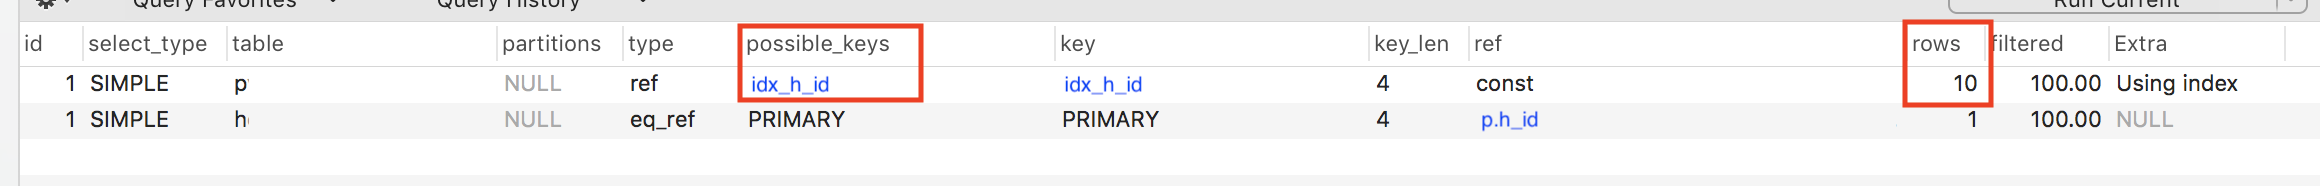
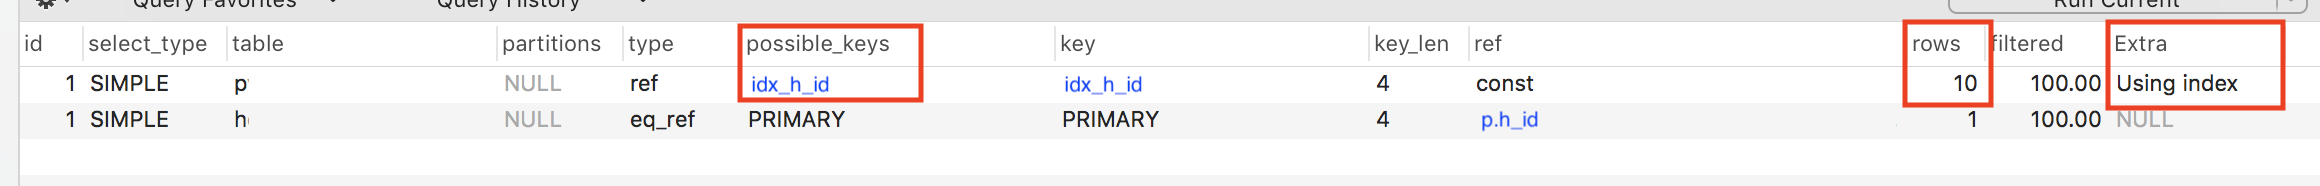
Rebuilding site Thu Jan 14 05:41:45 WIB 2021

Changed region(s): [[0.9, 0.5645, 0.9931, 0.6183], [0.9, 0.0806, 0.9931, 0.1344]]

diff --git a/docs/add-proper-index-table-for-slow-query-mysql/index.html b/docs/add-proper-index-table-for-slow-query-mysql/index.html
@@ -74,13 +74,13 @@ WHERE p.d_id = 26356
 <p>Details explanation of output of command <code>EXPLAIN</code> you will get in here <a href="https://dev.mysql.com/doc/refman/5.6/en/explain-output.html">https://dev.mysql.com/doc/refman/5.6/en/explain-output.html</a></p>
 </blockquote>
 <p>See red mark on column <code>key</code> and the first row, it means your query look over table <code>p</code> without index, identified by <code>null</code> value.
-Then you see a red mark on column <code>rows</code> and the first row, for <code>p</code> table MySQL do examine <code>218404</code> row in the table, this is total data in table <code>p</code>.</p>
+Then you see a red mark on column <code>rows</code> and the first row, for <code>p</code> table MySQL do examine <code>218404</code> row in the table, this is total data in table <code>p</code>. And on <code>Extra</code>, it tells that examines <code>p</code> table is using where condition not index.</p>
 <p>And you need to see a red mark on columns <code>ref</code> and the second row and this is what you are looking at. This is the table column that you need to add the index. In this example I add index for column <code>p.h_id</code> with index name <code>idx_h_id</code>.</p>
 <p>If in your case the value of <code>ref</code> is you think is not relevant, you need to decide by yourself which column to add a new index to reduce the high value of <code>row</code>. The lower number of <code>row</code> will faster your query.</p>
 <p>Now if I run <code>EXPLAIN</code> again the result will be like this.</p>
 <p><img src="../explain_after.png" alt="Example image"></p>
 <p>See the <code>row</code> value decrease from <code>218404</code> to <code>10</code> and on table <code>p</code> row the new index <code>idx_h_id</code> is used in the query process.
-And the query time is faster now.</p>
+And the query time is faster now. On <code>Extra</code> it tells that <code>p</code> table is now using index while scanning.</p>
 <p><img src="../query_after.png" alt="Example image"></p>
 <p>Hope it helps you! Put your comment below.</p>
 

diff --git a/content/add-proper-index-table-for-slow-query-mysql.md b/content/add-proper-index-table-for-slow-query-mysql.md
@@ -38,7 +38,7 @@ And you will get this
 
 
 See red mark on column `key` and the first row, it means your query look over table `p` without index, identified by `null` value.
-Then you see a red mark on column `rows` and the first row, for `p` table MySQL do examine `218404` row in the table, this is total data in table `p`.
+Then you see a red mark on column `rows` and the first row, for `p` table MySQL do examine `218404` row in the table, this is total data in table `p`. And on `Extra`, it tells that examines `p` table is using where condition not index.
 
 And you need to see a red mark on columns `ref` and the second row and this is what you are looking at. This is the table column that you need to add the index. In this example I add index for column `p.h_id` with index name `idx_h_id`.
 
@@ -49,7 +49,7 @@ Now if I run `EXPLAIN` again the result will be like this.
 ![Example image](../explain_after.png)
 
 See the `row` value decrease from `218404` to `10` and on table `p` row the new index `idx_h_id` is used in the query process.
-And the query time is faster now.
+And the query time is faster now. On `Extra` it tells that `p` table is now using index while scanning.
 
 ![Example image](../query_after.png)
 
